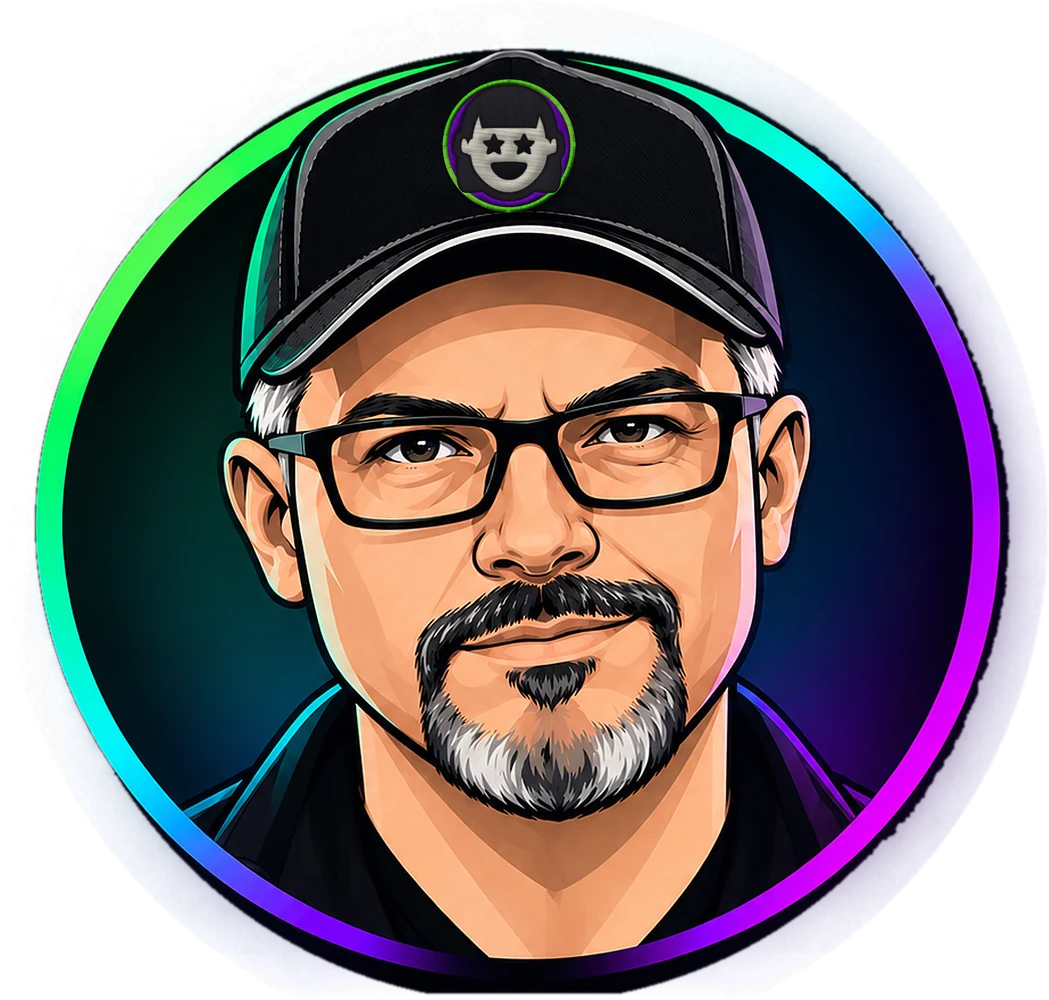
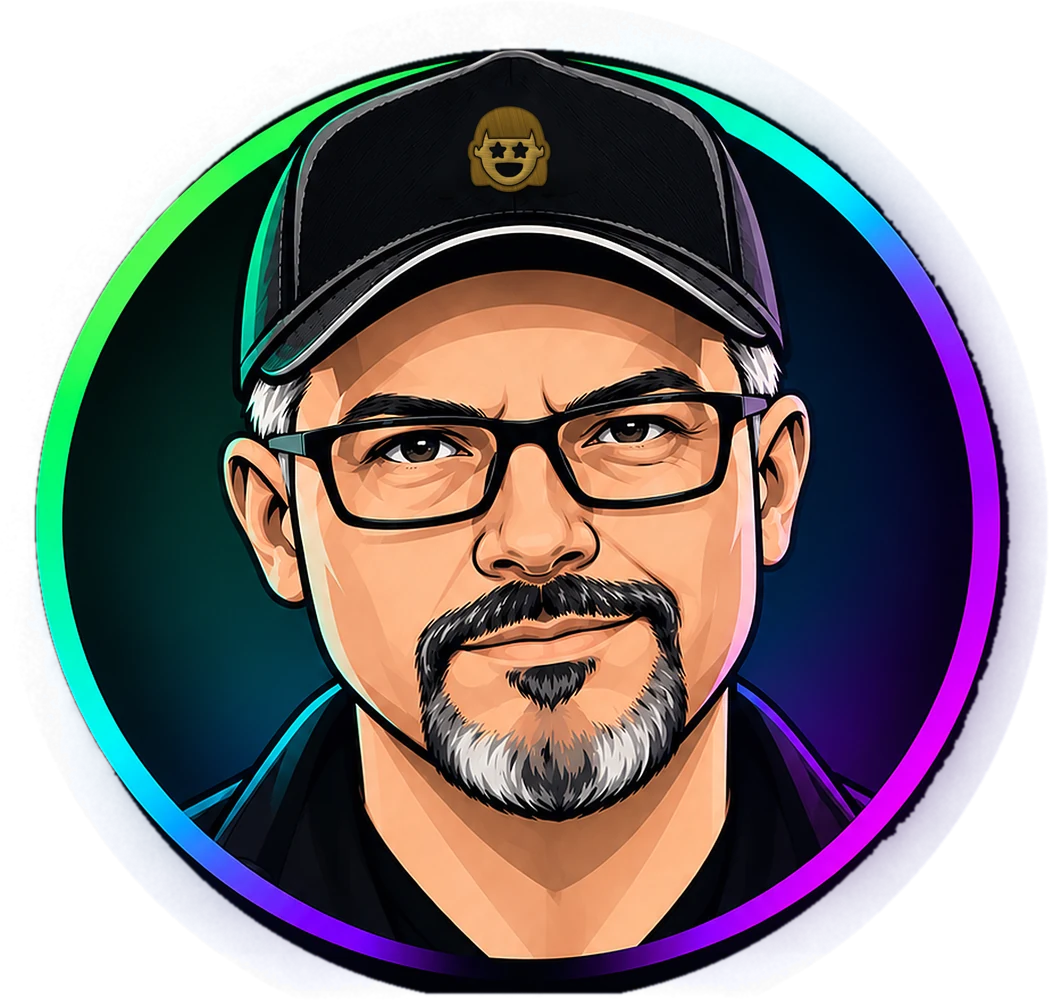
beta-5: cara del isotipo bordada en oro y más pequeña en la gorra

Changed region(s): [[0.3966, 0.062, 0.5491, 0.217]]

diff --git a/README.md b/README.md
@@ -4,8 +4,9 @@ Web principal de **mediaservi.com**.
 
 Página de una sola pantalla, sin scroll: cinco diapositivas (Inicio, Conecta, Favoritos, Proyectos, Cómo llegar) que se recorren con flechas, rueda, teclado o deslizando el dedo, con cortinilla de paneles LED y fondo de humo y haces de luz en WebGL.
 
-**Versión actual: beta-4**
+**Versión actual: beta-5**
 
+- beta-5: en la gorra del avatar, solo la cara del isotipo bordada en oro (sin el círculo) y a menor tamaño.
 - beta-4: web nativa en español e inglés (según la ubicación del visitante, con selector de idioma); nuevo orden: Inicio, Museo digital, Favoritos, Conecta, Cómo llegar; logo redondo en la cabecera con variaciones lentas de color corporativo; WhatsApp de contacto en todas las páginas; Inicio con el avatar (gorra con el isotipo bordado, enlace a LinkedIn) y el logo en metacrilato verde con destello cada 4 s; Museo digital en 3D (sala con cuadros-pantalla y monolito) que abre cada proyecto en una pantalla holográfica con consola; Parques temáticos & experiencias con logos que se revelan al pasar el ratón; Conecta con MEVI y acceso a KLUB (página privada en klub/); Cómo llegar con cielo estrellado y secuencia puerta + timbre.
 - beta-3: logotipos de marca en vector y PNG en assets/logos/ (horizontal MEDIASERVI.com y redondo); el horizontal en la cabecera y el redondo como icono de la web.
 - beta-2: portada sin el título «Hi, I'm MEVI»; el vídeo pasa a ser un fondo semitransparente en bucle, sin controles ni vídeos sugeridos; cada experiencia favorita lleva su imagen (assets/fav/), tenue y desenfocada, que se ve nítida al pasar el ratón.
